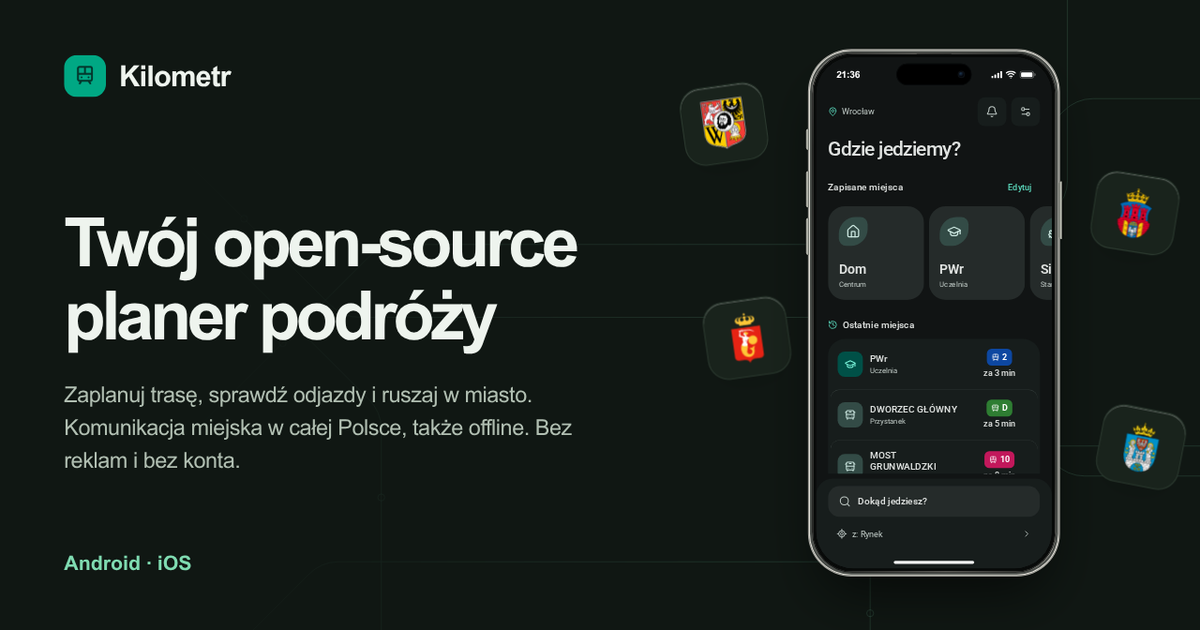
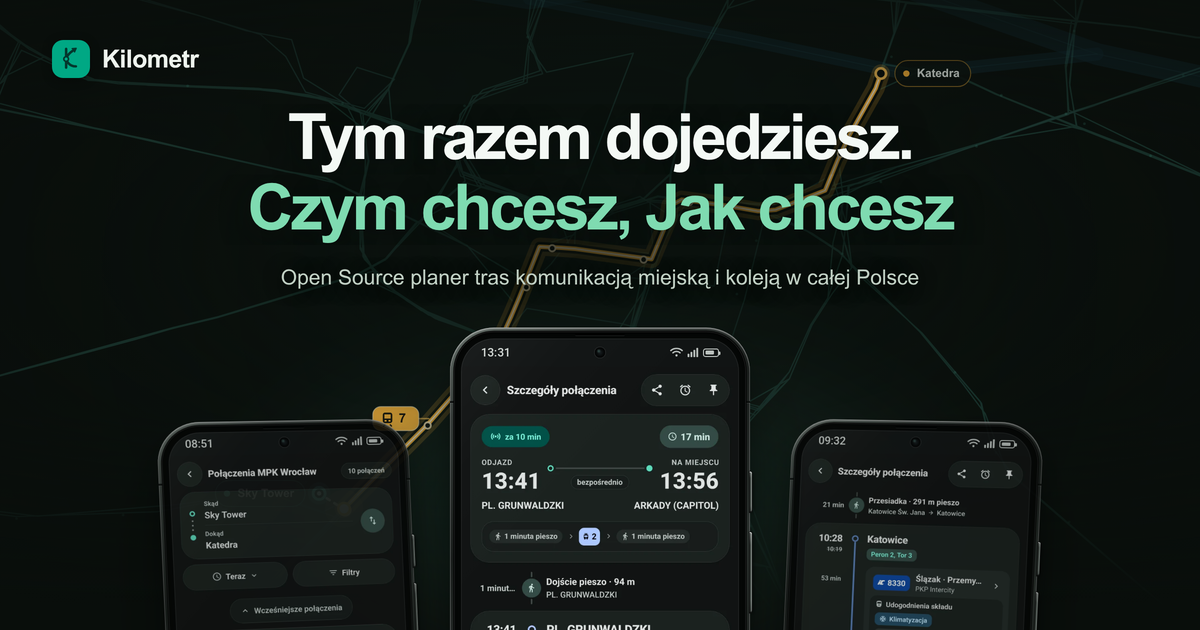
feat(landing): nowy baner udostępniania zgodny z redesignem hero

diff --git a/landing/social-preview.html b/landing/social-preview.html
@@ -5,12 +5,14 @@
     <meta name="viewport" content="width=1200" />
     <meta name="robots" content="noindex" />
     <title>%PAGE_TITLE%</title>
+    <script>
+      localStorage.setItem('kilometr.website.language', 'pl');
+    </script>
     <style>
       html,
       body,
       #root,
-      .landing-story,
-      .hero {
+      .hero-release {
         width: 1200px;
         height: 630px;
         overflow: hidden;
@@ -21,102 +23,62 @@
         animation: none !important;
         transition: none !important;
       }
-      .hero {
+      .hero-release {
+        padding: 0 48px;
+      }
+      .hero-map-stage {
+        height: 630px;
+      }
+      .release-nav {
+        position: absolute;
+        top: 40px;
+        left: 52px;
         padding: 0;
-        text-align: left;
       }
-      .hero .hero-brand {
-        top: 54px;
-        left: 64px;
-        gap: 13px;
-        font-size: 29px;
+      .release-brand {
+        gap: 12px;
+        font-size: 25px;
       }
-      .hero .hero-brand img {
-        width: 42px;
-        border-radius: 13px;
+      .release-brand-mark {
+        width: 38px;
+        height: 38px;
+        border-radius: 11px;
       }
-      .hero-copy {
-        position: absolute;
-        top: 207px;
-        left: 64px;
-        width: 640px;
+      .hero-content {
+        max-width: 1000px;
+        margin: 104px auto 0;
+      }
+      .hero-title {
         margin: 0;
+        font-size: 64px;
+        line-height: 1.04;
       }
-      .hero h1 {
-        font-size: 68px;
-        line-height: 1.07;
-        letter-spacing: -0.06em;
+      .hero-subtitle {
+        margin-top: 16px;
+        font-size: 21px;
       }
-      .hero-body {
-        max-width: 560px;
-        margin: 26px 0 0;
-        font-size: 22px;
-        line-height: 1.5;
-      }
-      .hero-actions {
+      .hero-cta {
         display: none;
       }
-      .product-stage {
-        position: absolute;
-        top: 49px;
-        left: 808px;
-        margin: 0;
+      .hero-hardware-stage {
+        margin-top: 34px;
       }
-      .hero-phone {
-        width: 252px;
+      .hero-hardware-stage::before {
+        top: 0;
+        height: 60%;
       }
-      .hero-cities {
-        inset: 0;
+      .hero-centerpiece {
+        width: 300px;
+        transform: none;
       }
-      .hero-city {
-        width: 84px;
+      .hero-flank {
+        width: 262px;
       }
-      .hero-city-mark {
-        height: 78px;
-        padding: 13px;
-        border-radius: 21px;
-        background: var(--surface);
-        backdrop-filter: none;
-        -webkit-backdrop-filter: none;
+      .hero-flank-left {
+        transform: translateY(34px) translateX(12px) rotateY(11deg) rotateZ(-2.5deg) scale(0.94);
       }
-      .hero-city-wroclaw {
-        top: 85px;
-        left: 682px;
-      }
-      .hero-city-krakow {
-        top: 174px;
-        right: 23px;
-      }
-      .hero-city-warszawa {
-        top: 299px;
-        left: 705px;
-      }
-      .hero-city-poznan {
-        top: 408px;
-        right: 17px;
-      }
-      .hero-city-gzm,
-      .hero-city-lodz {
-        display: none;
-      }
-      .transit-backdrop {
-        mask-image: linear-gradient(90deg, transparent 15%, #000 66%);
-      }
-      .transit-backdrop svg {
-        height: 2230px;
-      }
-      .transit-trains,
-      .transit-journey-progress,
-      .transit-journey-cursor {
-        display: none;
-      }
-      .preview-platforms {
-        position: absolute;
-        left: 64px;
-        bottom: 55px;
-        color: var(--accent);
-        font-size: 20px;
-        font-weight: 600;
+      .hero-flank-right {
+        transform: translateY(34px) translateX(-12px) rotateY(-11deg) rotateZ(2.5deg) scale(0.94);
       }
     </style>
   </head>
@@ -126,23 +88,9 @@
       import { createElement } from 'react';
       import { createRoot } from 'react-dom/client';
       import { Hero } from './src/components/Hero';
-      import { TransitBackdrop } from './src/components/TransitBackdrop';
-      import { pl } from '../src/i18n/landing/pl';
       import './src/styles.css';
 
-      createRoot(document.getElementById('root')).render(
-        createElement(
-          'div',
-          { className: 'landing-story' },
-          createElement(TransitBackdrop),
-          createElement(Hero),
-          createElement(
-            'p',
-            { className: 'preview-platforms' },
-            `${pl.install.android} · ${pl.install.ios}`,
-          ),
-        ),
-      );
+      createRoot(document.getElementById('root')).render(createElement(Hero));
     </script>
   </body>
 </html>

diff --git a/docs/index.html b/docs/index.html
@@ -14,17 +14,17 @@
     <meta property="og:title" content="Kilometr" />
     <meta property="og:description" content="Komunikacja miejska w miastach w całej Polsce. Planuj trasy, sprawdzaj odjazdy i korzystaj z rozkładów offline. Bezpłatnie na Androidzie." />
     <meta property="og:url" content="https://kilometr.app/" />
-    <meta property="og:image" content="https://kilometr.app/social-preview.png?v=2" />
+    <meta property="og:image" content="https://kilometr.app/social-preview.png?v=3" />
     <meta property="og:image:type" content="image/png" />
     <meta property="og:image:width" content="1200" />
     <meta property="og:image:height" content="630" />
-    <meta property="og:image:alt" content="Kilometr. Twój planer podróży open source. Ekran aplikacji na iPhonie, herby miast i schemat sieci komunikacji." />
+    <meta property="og:image:alt" content="Kilometr. Tym razem dojedziesz. Czym chcesz, jak chcesz. Trzy telefony z aplikacją na tle mapy z trasą przejazdu." />
     <meta name="twitter:card" content="summary_large_image" />
     <meta
       name="twitter:image"
-      content="https://kilometr.app/social-preview.png?v=2"
+      content="https://kilometr.app/social-preview.png?v=3"
     />
-    <meta name="twitter:image:alt" content="Kilometr. Twój planer podróży open source. Ekran aplikacji na iPhonie, herby miast i schemat sieci komunikacji." />
+    <meta name="twitter:image:alt" content="Kilometr. Tym razem dojedziesz. Czym chcesz, jak chcesz. Trzy telefony z aplikacją na tle mapy z trasą przejazdu." />
     <title>Kilometr</title>
     <script type="module" crossorigin src="./assets/index-RU7tlCUB.js"></script>
     <link rel="stylesheet" crossorigin href="./assets/index-DDwJII1h.css">

diff --git a/landing/index.html b/landing/index.html
@@ -14,7 +14,7 @@
     <meta property="og:title" content="%PAGE_TITLE%" />
     <meta property="og:description" content="%PAGE_DESCRIPTION%" />
     <meta property="og:url" content="https://kilometr.app/" />
-    <meta property="og:image" content="https://kilometr.app/social-preview.png?v=2" />
+    <meta property="og:image" content="https://kilometr.app/social-preview.png?v=3" />
     <meta property="og:image:type" content="image/png" />
     <meta property="og:image:width" content="1200" />
     <meta property="og:image:height" content="630" />
@@ -22,7 +22,7 @@
     <meta name="twitter:card" content="summary_large_image" />
     <meta
       name="twitter:image"
-      content="https://kilometr.app/social-preview.png?v=2"
+      content="https://kilometr.app/social-preview.png?v=3"
     />
     <meta name="twitter:image:alt" content="%PAGE_IMAGE_ALT%" />
     <title>%PAGE_TITLE%</title>

diff --git a/src/i18n/landing/uk.ts b/src/i18n/landing/uk.ts
@@ -16,7 +16,7 @@ export const uk: Strings = {
   meta: {
     title: 'Kilometr',
     imageAlt:
-      'Kilometr. Твій планувальник подорожей з відкритим кодом. Застосунок на iPhone, герби міст і схема транспортної мережі.',
+      'Kilometr. Цього разу ти доїдеш. Три телефони із застосунком на тлі мапи з маршрутом.',
     description:
       'Громадський транспорт у містах по всій Польщі. Плануй маршрути, перевіряй відправлення та користуйся розкладами офлайн. Безкоштовно на Android.',
   },

diff --git a/src/i18n/landing/pl.ts b/src/i18n/landing/pl.ts
@@ -14,7 +14,7 @@ export const pl = {
   meta: {
     title: 'Kilometr',
     imageAlt:
-      'Kilometr. Twój planer podróży open source. Ekran aplikacji na iPhonie, herby miast i schemat sieci komunikacji.',
+      'Kilometr. Tym razem dojedziesz. Czym chcesz, jak chcesz. Trzy telefony z aplikacją na tle mapy z trasą przejazdu.',
     description:
       'Komunikacja miejska w miastach w całej Polsce. Planuj trasy, sprawdzaj odjazdy i korzystaj z rozkładów offline. Bezpłatnie na Androidzie.',
   },

diff --git a/src/i18n/landing/en.ts b/src/i18n/landing/en.ts
@@ -8,7 +8,7 @@ export const en: Strings = {
   meta: {
     title: 'Kilometr',
     imageAlt:
-      'Kilometr. Your open source journey planner. The app on an iPhone, city coats of arms and a transit network diagram.',
+      'Kilometr. This time you get there. By whatever, however you want. Three phones with the app over a map with a journey route.',
     description:
       'Public transport in cities across Poland. Plan journeys, check departures and use offline timetables. Free on Android.',
   },

diff --git a/src/i18n/landing/de.ts b/src/i18n/landing/de.ts
@@ -8,7 +8,7 @@ export const de: Strings = {
   meta: {
     title: 'Kilometr',
     imageAlt:
-      'Kilometr. Dein quelloffener Reiseplaner. Die App auf einem iPhone, Stadtwappen und ein Liniennetz.',
+      'Kilometr. Diesmal kommst du an. Drei Handys mit der App vor einer Karte mit Reiseroute.',
     description:
       'Nahverkehr in Städten in ganz Polen. Verbindungen planen, Abfahrten prüfen und Fahrpläne offline nutzen. Kostenlos für Android.',
   },

diff --git a/landing/SOCIAL-PREVIEW.md b/landing/SOCIAL-PREVIEW.md
@@ -1,32 +1,16 @@
 # Baner udostępniania
 
-22 października 2026. PNG 1200 × 630 px, około 197 KiB. Kierunek: obecny landing Kilometra. ENERGY 2 / RHYTHM 2 / MOTION 1.
+22 listopada 2026. PNG 1200 × 630 px, około 485 KiB. Kierunek: hero po redesignie landingu (mapa z trasą, wyśrodkowany nagłówek, trzy telefony).
 
-Źródło: `social-preview.html`. Uruchom `npm --prefix landing run dev`, otwórz `/social-preview.html` i zapisz zrzut przy obszarze strony 1200 × 630 px. Jeśli przeglądarka skaluje zrzut, przeskaluj eksport do tych wymiarów. Przed zapisem poczekaj na obrazy i fonty. Wynik trafia do `landing/public/social-preview.png` i identycznej kopii w `docs/social-preview.png`.
+Źródło: `social-preview.html` renderuje komponent `Hero` w języku polskim, bez animacji i bez przycisków. Uruchom `npm --prefix landing run dev`, otwórz `/social-preview.html` w oknie 1200 × 630 px i zapisz zrzut. Mapa jest animowana na canvasie, więc wybierz klatkę, w której etykiety trasy nie nachodzą na nagłówek. Jeśli przeglądarka skaluje zrzut, przeskaluj do 1200 × 630 px. Wynik trafia do `landing/public/social-preview.png` i identycznej kopii w `docs/social-preview.png`. Po zmianie podbij `?v=` w `og:image` i `twitter:image` (`landing/index.html`, `docs/index.html`).
 
-Osobny embed połączenia pominięty. Linki przechowują dane w `#trip`, odczytywanym przez aplikację w przeglądarce. Bot pobierający statyczny HTML otrzymuje metadane landingu. Osobny podgląd wymagałby adresu lub obsługi serwera rozróżniającej podróże.
+Opis alternatywny: `meta.imageAlt` w `src/i18n/landing/{pl,en,de,uk}.ts`.
 
-## 1. Hard Gate: PASS w zakresie banera
+Osobny embed połączenia pominięty. Linki przechowują dane w `#trip`, odczytywanym przez aplikację w przeglądarce. Bot pobierający statyczny HTML otrzymuje metadane landingu.
 
-- Istniejące komponenty `Hero`, `Phone` i `TransitBackdrop`, znaki miast oraz teksty ze słownika. Bez nowych danych demonstracyjnych, statystyk i opinii.
-- PNG sprawdzony wizualnie w wymiarach 1200 × 630 px. Wszystkie obrazy źródłowe załadowane. Brak uciętych treści banera i nowych kontrolek.
-- Kontrast nagłówka 16,30:1, opisu 9,50:1, podpisu platform 10,98:1. Opis alternatywny w słownikach PL/EN/DE/UK. Bez pauz em w nowych tekstach.
-- Metadane OG/Twitter obecne w HTML po transformacji Vite, bez wykonywania aplikacji przez bota. Lokalny adres obrazu z `?v=2` zwraca HTTP 200 i `image/png`.
+## Delivery Gate
 
-## 2. Purpose-Gate: PASS
-
-- Ciemna zieleń i systemowa typografia pochodzą z obecnego landingu. Duży nagłówek pozwala rozpoznać produkt w miniaturze.
-- Układ poziomy oddziela opis od ekranu telefonu. Marginesy zachowują czytelność w proporcjach embedu.
-- Schemat tras i znaki miast kontynuują motyw komunikacji miejskiej. Ograniczenie do czterech znaków zostawia miejsce na podgląd aplikacji.
-- Cień i metaliczna ramka pochodzą z istniejącego komponentu telefonu. Animacje wyłączone, kafelki miast bez rozmycia tła.
-
-## 3. Liveliness: PASS
-
-- ENERGY 2 / RHYTHM 2 / MOTION 1 zadeklarowane przed tworzeniem. Nagłówek jest głównym punktem uwagi, telefon pokazuje interfejs produktu.
-- Zielony podpis platform, sieć tras i znaki miast zachowują tożsamość Kilometra. Odstępy rozdzielają markę, opis i platformy.
-
-## 4. Craftsmanship i Quality Locks: PASS w zakresie banera
-
-- Weryfikacja w działającym Vite, oględziny końcowego PNG, kontrola wymiarów i identyczności obu kopii. Po ponownym wczytaniu podgląd działa poprawnie.
-- TypeScript aplikacji i landingu, ESLint zmienionych plików TypeScript, Prettier i `git diff --check`: PASS.
-- Brak nowych zależności. Pełnego buildu nie uruchamiano. Produkcyjny HTML zaktualizuje istniejący workflow GitHub Pages.
+- Hard Gate: PASS. Tylko istniejące komponenty, zrzuty i teksty ze słownika. Bez nowych danych, statystyk i kontrolek. Brak uciętego tekstu.
+- Purpose-Gate: PASS. Ten sam nagłówek, kolory i mapa co hero strony, więc embed i strona wyglądają jak jedno.
+- Liveliness: PASS. Nagłówek jest głównym punktem, telefony pokazują produkt, trasa na mapie prowadzi wzrok.
+- Craftsmanship: PASS. Zrzut z działającego Vite, wymiary i identyczność obu kopii sprawdzone.
